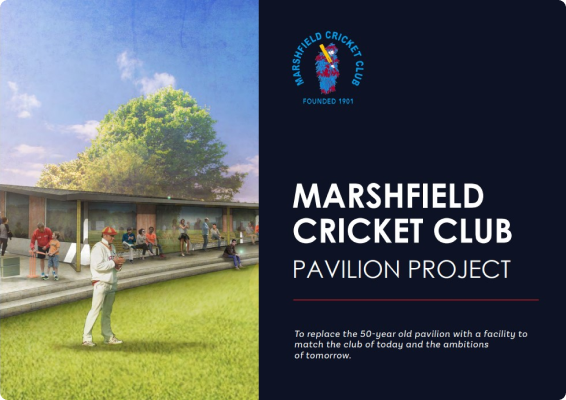
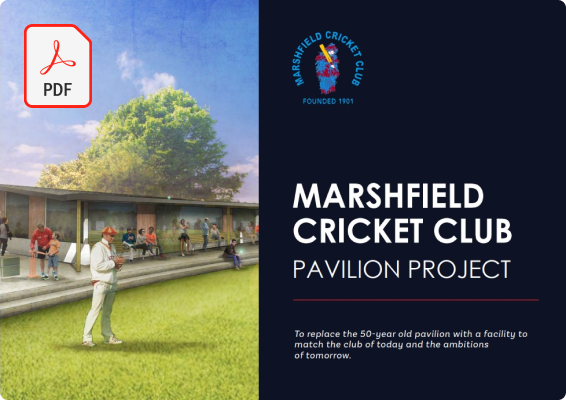
Hover effect for pdf download

Changed region(s): [[0.03, 0.06, 0.1802, 0.27]]

diff --git a/resources/views/components/ContactForm/contactForm.css b/resources/views/components/ContactForm/contactForm.css
@@ -23,24 +23,44 @@
 }
 
 .contact-section__image {
-  @apply text-center;
+  @apply relative text-center;
 }
 
 .contact-section__image-actual {
   @apply mx-auto;
 }
 
-.contact-section__image-actual-hover {
-  @apply hidden mx-auto;
+.contact-section__image-actual:hover {
+  -webkit-filter: brightness(70%);
+  -webkit-transition: all .5s ease;
+  -moz-transition: all .5s ease;
+  -o-transition: all .5s ease;
+  -ms-transition: all .5s ease;
+  transition: all .5s ease;
 }
 
-.contact-section__image-actual:hover .contact-section__image-actual-hover {
-  @apply hidden;
+.contact-section__image:after {
+  position: absolute;
+  background-image: url("../../../../public/assets/icons/download.png");
+  background-repeat: no-repeat;
+  content: "";
+  max-width: 72px;
+  max-height: 72px;
+  position: absolute;
+  top: 50%;
+  left: 50%;
+  right: 0;
+  bottom: 0;
+  transform: translate(-50%, -50%);
+  transition: opacity .5s;
+  opacity: 0;
 }
 
-.contact-section__image:hover .contact-section__image-actual-hover {
-  @apply block;
+.contact-section__image:hover:after {
+  opacity: 1;
 }
+
+
 
 .contact-form {
   @apply mt-10 mb-5;
@@ -110,8 +130,7 @@
     width: 100%;
   }
 
-  .contact-section__image-actual,
-  .contact-section__image-actual-hover {
+  .contact-section__image-actual {
     @apply m-0;
   }
 }

diff --git a/resources/views/components/ContactForm/_contact-form.antlers.html b/resources/views/components/ContactForm/_contact-form.antlers.html
@@ -20,13 +20,6 @@
                                 alt="{{ alt }}"
                             />
                         {{ /asset:image_one }}
-                        {{ asset:image_two }}
-                            <img 
-                                class="contact-section__image-actual-hover" 
-                                src="{{ glide:image_two }}"
-                                alt="{{ alt }}"
-                            />
-                        {{ /asset:image_two }}
                     </div>
                 </a>
             </div>

diff --git a/resources/views/default.antlers.html b/resources/views/default.antlers.html
@@ -33,6 +33,6 @@
         {{ partial:components/Donate/donate image=image section_id=section_id }}
     {{ /if }}
     {{ if type === "contact_form" }}
-        {{ partial:components/ContactForm/contact-form section_id=section_id pdf=pdf image_one=image_one image_two=image_two }}
+        {{ partial:components/ContactForm/contact-form section_id=section_id pdf=pdf image_one=image_one }}
     {{ /if }}
 {{ /block_builder }}

diff --git a/content/collections/pages/home.md b/content/collections/pages/home.md
@@ -4,7 +4,7 @@ blueprint: pages
 title: Home
 template: default
 updated_by: 3bd1f3d1-f089-4ca4-a2f7-76ff9d4b5bf9
-updated_at: 1646247909
+updated_at: 1646270003
 block_builder:
   -
     heading: 'Marshfield Cricket Club'
@@ -251,6 +251,6 @@ block_builder:
     enabled: true
     pdf: documents/marshfield-cricket-club-pavilion-project.pdf
     section_id: contact
-    image_one: brochure.png
     image_two: brochure-hover.png
+    image_one: brochure.png
 ---
